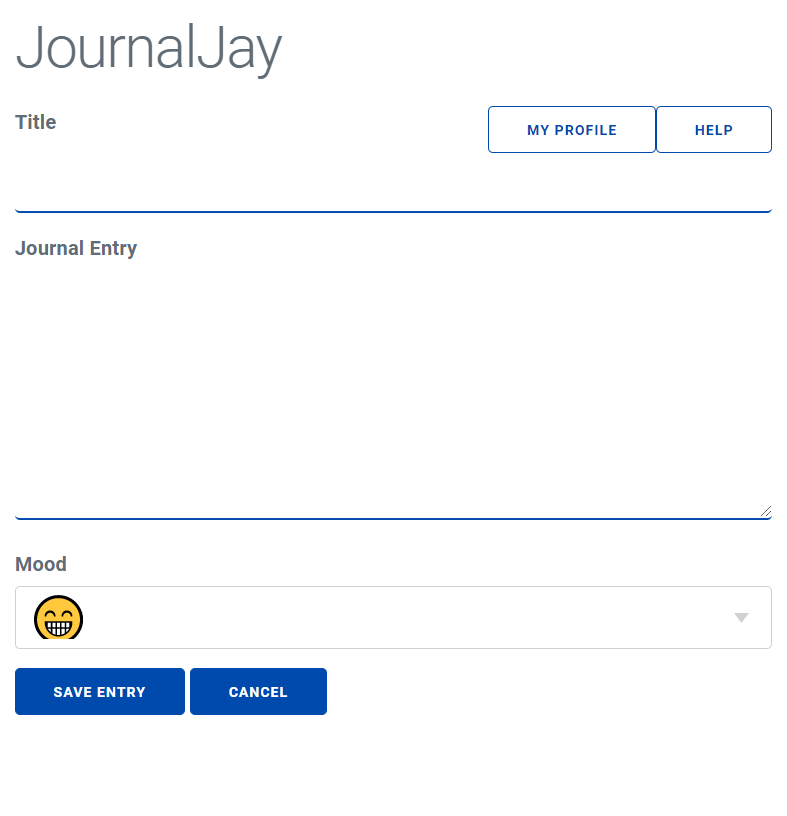
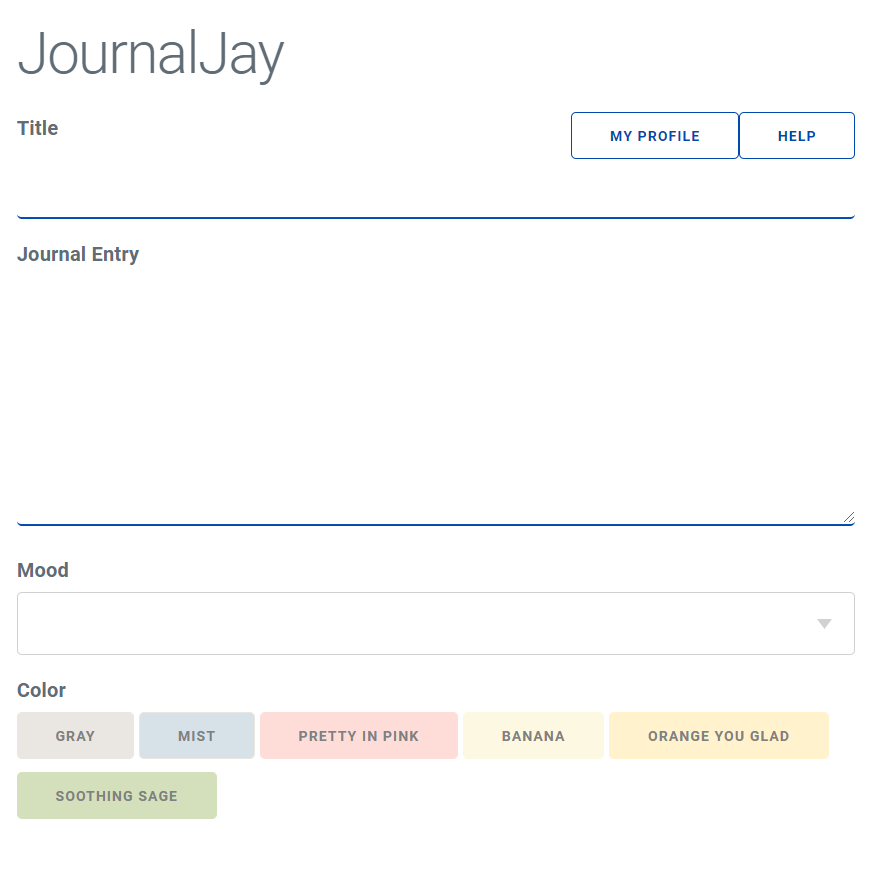
Added pictures and finished help.html
Added new pictures and finished help.html

diff --git a/App/help.html b/App/help.html
@@ -24,8 +24,33 @@
   <h3>How to Make a Journal Entry</h3>
   <p>The main page of JournalJay will have a title field and entry field. Here is what it will look like.</p>
   <img src="Pics/help1.png" alt="Make a journal entry page" class="center">
+  </br>
+
+  <p>Input the title of your journal entry in the "Title" field and put the
+    content of your entry in the "Journal Entry" box.</p>
+  <img src="Pics/help2.png" alt="Fill the journal fields" class="center">
+  </br>
+
+  <p>Choose an emoji to show how you are feeling right now! If you do not want an emoji,
+    you can leave this field blank.</p>
+  <img src="Pics/help3.png" alt="Choose an emoji" class="center">
+  </br>
+
+  <p>Choose a color from the 6 presets as shown. The entry box will show the different colors you can choose from!</p>
+  <img src="Pics/help4.png" alt="Choose a color for your entry" class="center">
+  </br>
+
+  <p>Click "Save Entry" to save the entry or "Cancel" to cancel.</p>
+  <img src="Pics/help5.png" alt="Choose make entry or cancel" class="center">
+  </br>
+
+  <p>If you saved the entry, you will see your entry on the main page. Click on your entry to review it. Keep in mind,
+    you can only make one journal entry a day. </p>
+  <img src="Pics/help6.png" alt="Review your entry" class="center">
+  </br>
 
   <p>If you need additional assistance, contact us at JaySupport@journaljay.com</p>
+
 </div>
   <script defer src="Login.js"></script>
   <script defer src="Classes.js"></script>
